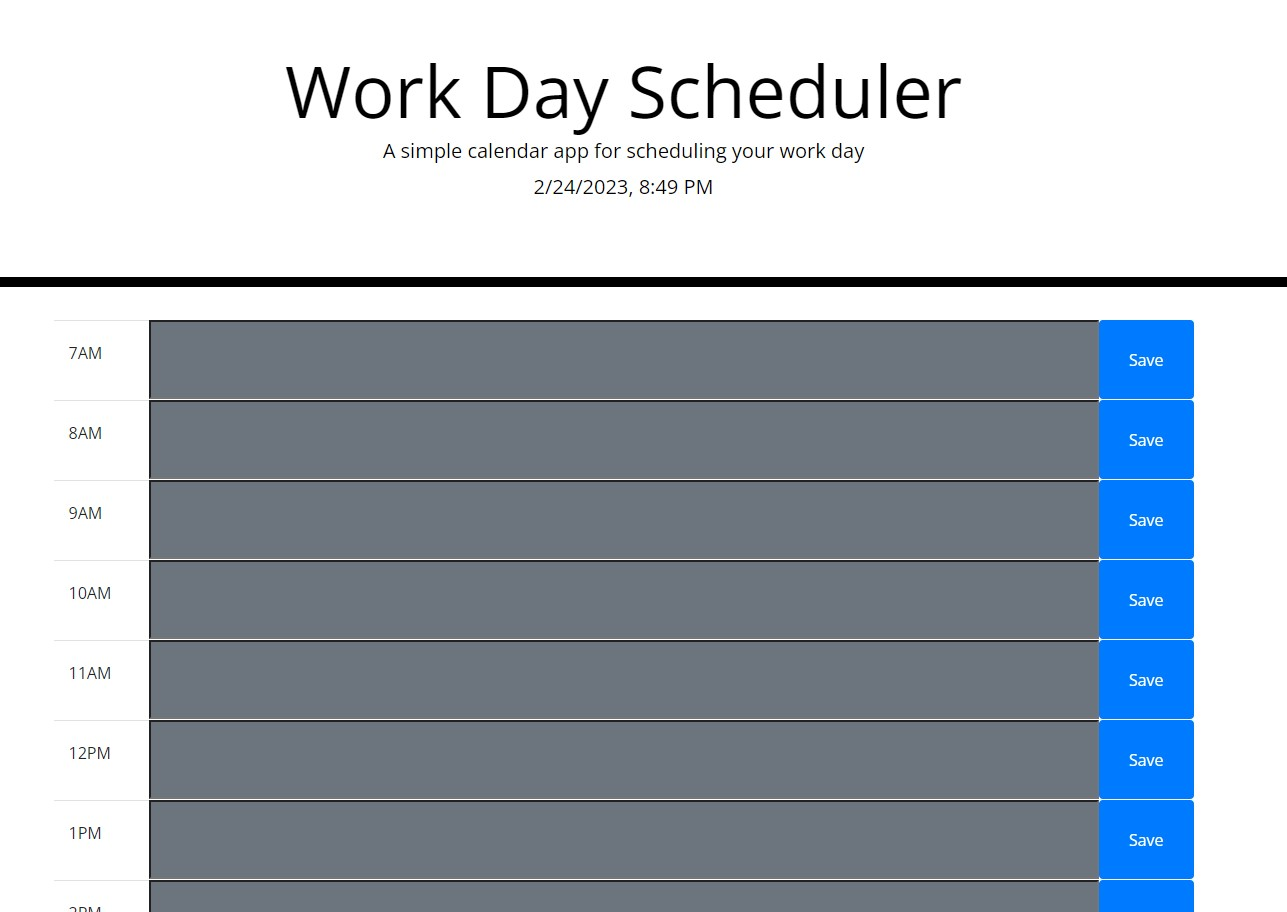
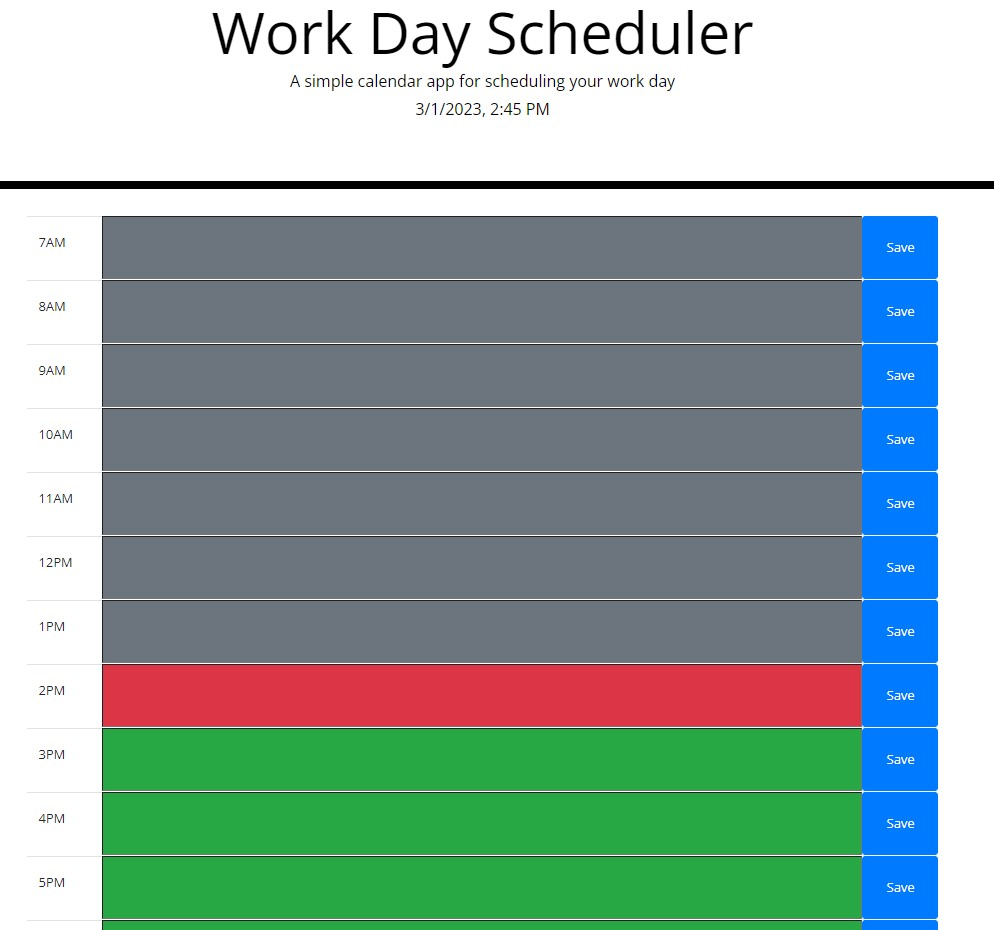
read me fix, format date

diff --git a/assets/style.css b/assets/style.css
@@ -1,71 +1,71 @@
 body {
-    font-family: 'Open Sans', sans-serif;
-    font-size: 16px;
-    line-height: 1;
-  }
+  font-family: 'Open Sans', sans-serif;
+  font-size: 16px;
+  line-height: 1;
+}
   
-  textarea{
-    background: transparent;
-    border: none;
-    resize: none;
-    color: #000000;
-    border-left: 1px solid black;
-    padding: 10px;
-  }
+textarea{
+  background: transparent;
+  border: none;
+  resize: none;
+  color: #000000;
+  border-left: 1px solid black;
+  padding: 10px;
+}
   
-  .jumbotron {
-    text-align: center;
-    background-color: transparent;
-    color: black;
-    border-radius: 0;
-    border-bottom: 10px solid black;
-  }
+.jumbotron {
+  text-align: center;
+  background-color: transparent;
+  color: black;
+  border-radius: 0;
+  border-bottom: 10px solid black;
+}
   
-  .description{
-    white-space: pre-wrap;
-  }
+.description{
+  white-space: pre-wrap;
+}
   
-  .time-block{
-    text-align: center;
-    border-radius: 15px;
-  }
+.time-block{
+  text-align: center;
+  border-radius: 15px;
+}
   
-  .row {
-    white-space: pre-wrap;
-    height: 80px;
-    border-top: 1px solid white;;
-  }
+.row {
+  white-space: pre-wrap;
+  height: 80px;
+  border-top: 1px solid white;;
+}
   
-  .hour {
-    background-color: #ffffff;
-    color: #000000;
-    border-top: 1px dashed #000000;
-  }
+.hour {
+  background-color: #ffffff;
+  color: #000000;
+  border-top: 1px dashed #000000;
+}
   
-  .past {
-    background-color: #d3d3d3;
-    color: white;
-  }
+.past {
+  background-color: #d3d3d3;
+  color: white;
+}
   
-  .present {
-    background-color: #ff6961;
-    color: white;
-  }
+.present {
+  background-color: #ff6961;
+  color: white;
+}
   
-  .future {
-    background-color: #77dd77;
-    color: white;
-  }
+.future {
+  background-color: #77dd77;
+  color: white;
+}
+ 
+.saveBtn {
+  border-left: 1px solid black;
+  border-top-right-radius: 15px;
+  border-bottom-right-radius: 15px;
+  background-color: #06AED5;
+  color: white;
+}
   
-  .saveBtn {
-    border-left: 1px solid black;
-    border-top-right-radius: 15px;
-    border-bottom-right-radius: 15px;
-    background-color: #06AED5;
-    color: white;
-  }
-  
-  .saveBtn i:hover {
-    font-size: 20px;
-    transition: all .3s ease-in-out;
-  }
+.saveBtn i:hover {
+  font-size: 20px;
+  transition: all .3s ease-in-out;
+}

diff --git a/index.html b/index.html
@@ -90,10 +90,9 @@
           <button type="button" id="six-button" class="col-1 btn btn-primary">Save</button>
         </div>
         <div class="text-center">
-          <button type="button" id="clear-button" class="mt-4 p-2 items-center btn btn-danger">Clear Schedule</button>
+          <button type="button" id="clear-button" class="m-4 p-2 items-center btn btn-danger">Clear Schedule</button>
         </div>
     </div>
-    <footer class="text-center m-3 p-3">Made for a Project</footer>
     <script src="https://code.jquery.com/jquery-3.4.1.min.js"></script>
     <script src="https://cdnjs.cloudflare.com/ajax/libs/moment.js/2.24.0/moment.min.js"></script>
     <script src="./assets/script.js"></script>

diff --git a/assets/script.js b/assets/script.js
@@ -2,6 +2,9 @@
 var dateTimeEl = document.getElementById("currentDay");
 var today = new Date();
 dateTimeEl.innerHTML = today.toLocaleDateString('en-US', {
+    month: "long",
+    day: "numeric",
+    year: "numeric",
     hour: "numeric",
     minute: "numeric",
     hour12: true });

diff --git a/README.md b/README.md
@@ -2,19 +2,23 @@
 # Work Day Scheduler
 
 ## Description
-
 If you ever want to plan out your workday in a simple tab on your browser, Work Day Scheduler is the best for you. There are places to input things to do for each hour then save the data. The hours even change color depending on if the hour is in the past present or future.
 
-## Link
+## Link to Application
 https://jeffrylangford.github.io/scheduling-my-workday/
 
-## Usage Information
+## User Story
+```
+AS A person who struggles with planning out their workday
+I WANT a simple and easy-to-look at schedule
+SO THAT I better plan my day
+```
 
-
+## Screenshot
 ![alt text](assets/images/screenshot.jpg)
 
-
-Write any desired information in the boxes for each hour then click save when done. You can edit whenever you'd like by just overwriting or adding then clicking save again. After the day ends, you can hit the "Clear Schedule" button.
+## Usage Information
+Write any desired information in the boxes for each hour then click save when done. You can edit whenever you'd like by just overwriting or adding then clicking save again. After the day ends or whenever you need to clear the previous day's data, you can hit the "Clear Schedule" button.
 
 ---
 
